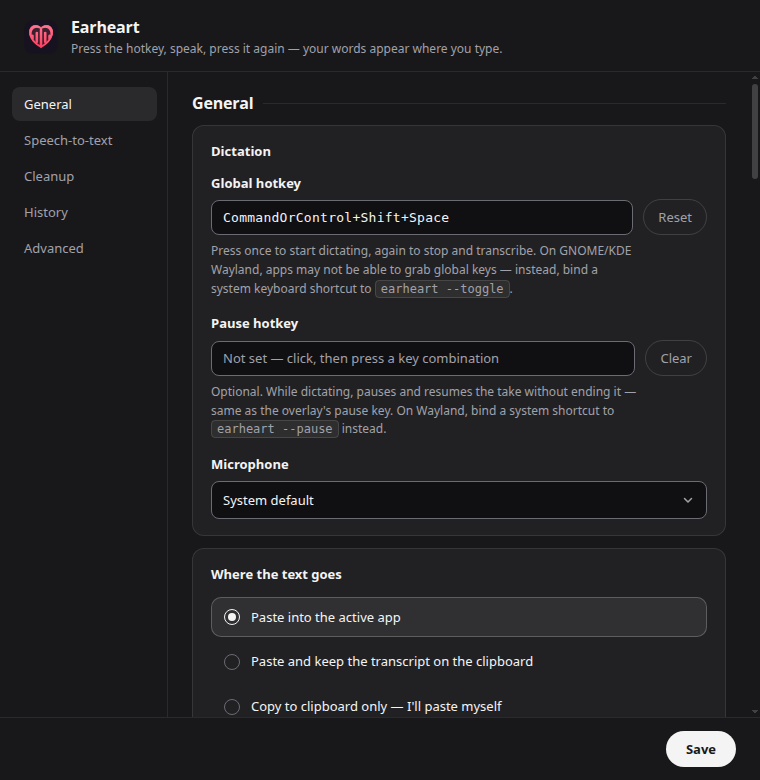
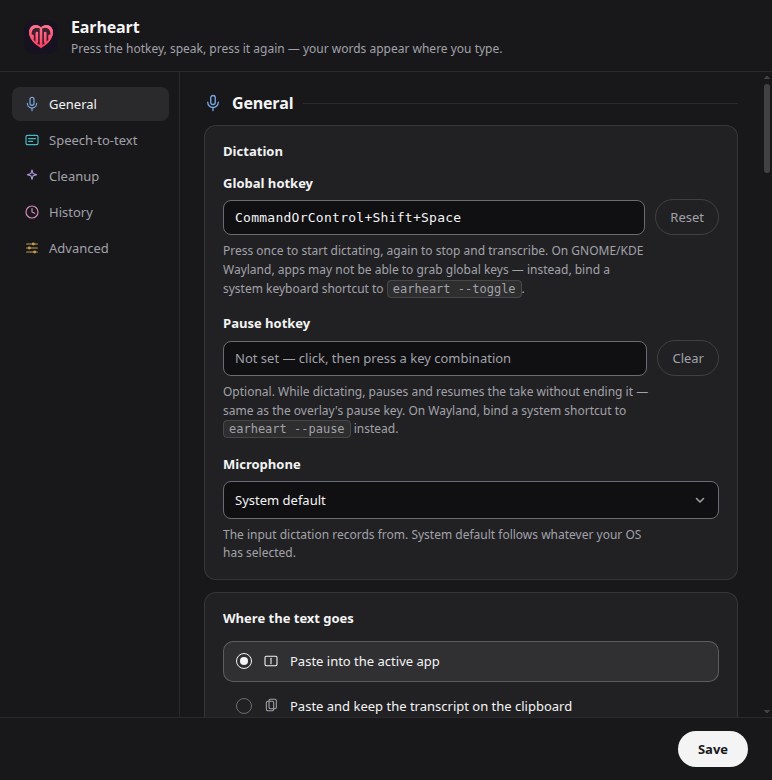
fix(settings): announce the engine badge, give the index room
The two engine pills are swapped by toggling `hidden`, so nothing told a
screen reader that picking OpenAI-compatible is the moment audio starts
leaving the machine — the radio label was the only announcement. Both
states now sit inside one `aria-live="polite"` slot per card: a container
that stays put while its contents change, which is what a live region
needs. The slot also carries the 10px offset, so the spacing under the
hint is the same whichever state is showing.

The index rail goes 168px → 180px because the widest entry
("Speech-to-text") plus its new 16px glyph and 9px gap needs 145px of
content in the widest common UI font (DejaVu Sans) — one pixel of
headroom. The window widens 760 → 772 to match, so the content column
stays exactly where it was.

settings-smoke now drives the engine radios both ways and asserts the
badge follows and lives in a live region, and the README settings
screenshot is re-captured at the new width.

diff --git a/renderer/settings.html b/renderer/settings.html
@@ -182,13 +182,20 @@
               Built-in runs NVIDIA Parakeet privately, with nothing to install.
               OpenAI-compatible points at a local server, OpenAI, Groq, and the like.
             </p>
-            <div class="state-badge state-badge-private" id="stt-engine-state-builtin">
-              <svg class="state-badge-icon" viewBox="0 0 24 24" fill="none" stroke="currentColor" stroke-width="1.6" stroke-linecap="round" stroke-linejoin="round" aria-hidden="true"><rect x="6" y="6" width="12" height="12" rx="2"/><line x1="12" y1="2" x2="12" y2="6"/><line x1="12" y1="18" x2="12" y2="22"/><line x1="2" y1="12" x2="6" y2="12"/><line x1="18" y1="12" x2="22" y2="12"/></svg>
-              Runs on this device — your audio never leaves it
-            </div>
-            <div class="state-badge state-badge-external" id="stt-engine-state-external" hidden>
-              <svg class="state-badge-icon" viewBox="0 0 24 24" fill="none" stroke="currentColor" stroke-width="1.6" stroke-linecap="round" stroke-linejoin="round" aria-hidden="true"><path d="M14 3h7v7"/><line x1="21" y1="3" x2="10" y2="14"/><path d="M19 14v5a2 2 0 0 1-2 2H5a2 2 0 0 1-2-2V7a2 2 0 0 1 2-2h5"/></svg>
-              Sends audio to the endpoint below
+            <!-- One live region per card, wrapping both states: the pill is swapped
+                 by hiding one div and showing the other, so the announcement has to
+                 come from a container that never moves. Switching engines is the one
+                 choice here that changes where your audio/words go — a screen reader
+                 hears that consequence, not just the radio label. -->
+            <div class="state-badge-slot" aria-live="polite">
+              <div class="state-badge state-badge-private" id="stt-engine-state-builtin">
+                <svg class="state-badge-icon" viewBox="0 0 24 24" fill="none" stroke="currentColor" stroke-width="1.6" stroke-linecap="round" stroke-linejoin="round" aria-hidden="true"><rect x="6" y="6" width="12" height="12" rx="2"/><line x1="12" y1="2" x2="12" y2="6"/><line x1="12" y1="18" x2="12" y2="22"/><line x1="2" y1="12" x2="6" y2="12"/><line x1="18" y1="12" x2="22" y2="12"/></svg>
+                Runs on this device — your audio never leaves it
+              </div>
+              <div class="state-badge state-badge-external" id="stt-engine-state-external" hidden>
+                <svg class="state-badge-icon" viewBox="0 0 24 24" fill="none" stroke="currentColor" stroke-width="1.6" stroke-linecap="round" stroke-linejoin="round" aria-hidden="true"><path d="M14 3h7v7"/><line x1="21" y1="3" x2="10" y2="14"/><path d="M19 14v5a2 2 0 0 1-2 2H5a2 2 0 0 1-2-2V7a2 2 0 0 1 2-2h5"/></svg>
+                Sends audio to the endpoint below
+              </div>
             </div>
           </div>
 
@@ -304,13 +311,20 @@
                 Built-in runs a small Gemma model, with nothing to install.
                 OpenAI-compatible points at Ollama, LM Studio, OpenAI, and the like.
               </p>
-              <div class="state-badge state-badge-private" id="cleanup-engine-state-builtin">
-                <svg class="state-badge-icon" viewBox="0 0 24 24" fill="none" stroke="currentColor" stroke-width="1.6" stroke-linecap="round" stroke-linejoin="round" aria-hidden="true"><rect x="6" y="6" width="12" height="12" rx="2"/><line x1="12" y1="2" x2="12" y2="6"/><line x1="12" y1="18" x2="12" y2="22"/><line x1="2" y1="12" x2="6" y2="12"/><line x1="18" y1="12" x2="22" y2="12"/></svg>
-                Runs on this device — your words never leave it
-              </div>
-              <div class="state-badge state-badge-external" id="cleanup-engine-state-external" hidden>
-                <svg class="state-badge-icon" viewBox="0 0 24 24" fill="none" stroke="currentColor" stroke-width="1.6" stroke-linecap="round" stroke-linejoin="round" aria-hidden="true"><path d="M14 3h7v7"/><line x1="21" y1="3" x2="10" y2="14"/><path d="M19 14v5a2 2 0 0 1-2 2H5a2 2 0 0 1-2-2V7a2 2 0 0 1 2-2h5"/></svg>
-                Sends the transcript to the endpoint below
+              <!-- One live region per card, wrapping both states: the pill is swapped
+                   by hiding one div and showing the other, so the announcement has to
+                   come from a container that never moves. Switching engines is the one
+                   choice here that changes where your audio/words go — a screen reader
+                   hears that consequence, not just the radio label. -->
+              <div class="state-badge-slot" aria-live="polite">
+                <div class="state-badge state-badge-private" id="cleanup-engine-state-builtin">
+                  <svg class="state-badge-icon" viewBox="0 0 24 24" fill="none" stroke="currentColor" stroke-width="1.6" stroke-linecap="round" stroke-linejoin="round" aria-hidden="true"><rect x="6" y="6" width="12" height="12" rx="2"/><line x1="12" y1="2" x2="12" y2="6"/><line x1="12" y1="18" x2="12" y2="22"/><line x1="2" y1="12" x2="6" y2="12"/><line x1="18" y1="12" x2="22" y2="12"/></svg>
+                  Runs on this device — your words never leave it
+                </div>
+                <div class="state-badge state-badge-external" id="cleanup-engine-state-external" hidden>
+                  <svg class="state-badge-icon" viewBox="0 0 24 24" fill="none" stroke="currentColor" stroke-width="1.6" stroke-linecap="round" stroke-linejoin="round" aria-hidden="true"><path d="M14 3h7v7"/><line x1="21" y1="3" x2="10" y2="14"/><path d="M19 14v5a2 2 0 0 1-2 2H5a2 2 0 0 1-2-2V7a2 2 0 0 1 2-2h5"/></svg>
+                  Sends the transcript to the endpoint below
+                </div>
               </div>
             </div>
 

diff --git a/scripts/settings-smoke.js b/scripts/settings-smoke.js
@@ -10,6 +10,8 @@
 //      and glides the panel back to the top.
 //   4. The roving tabindex is seated at load: exactly one index button is a
 //      Tab stop before any interaction.
+//   5. The engine state badge follows the engine radio in both directions, and
+//      swaps inside a live region so the privacy consequence is announced.
 //
 // Run under Electron:
 //
@@ -186,6 +188,54 @@ app.whenReady().then(async () => {
     await sleep(100);
     const cleared = await js(`document.getElementById("update-notes").hidden`);
     check("the notes clear when the update does", cleared === true, `hidden=${cleared}`);
+
+    // 6. The engine badge tracks the engine choice. Built-in vs
+    //    OpenAI-compatible decides whether audio/words ever leave the machine,
+    //    so the pill naming that consequence has to follow the radio in both
+    //    directions — and it has to sit in a live region that stays put while
+    //    the two states swap, or a screen reader hears the radio label and
+    //    nothing about where the data goes.
+    for (const kind of ["stt", "cleanup"]) {
+      const badge = JSON.parse(
+        await js(`
+          (() => {
+            const read = () => ({
+              builtin: !document.getElementById("${kind}-engine-state-builtin").hidden,
+              external: !document.getElementById("${kind}-engine-state-external").hidden,
+            });
+            const pick = (value) => {
+              const radio = document.querySelector(
+                'input[name="${kind}-engine"][value=' + JSON.stringify(value) + ']'
+              );
+              radio.checked = true;
+              radio.dispatchEvent(new Event("change", { bubbles: true }));
+              return read();
+            };
+            const slot = document
+              .getElementById("${kind}-engine-state-builtin")
+              .closest("[aria-live]");
+            return JSON.stringify({
+              external: pick("external"),
+              builtin: pick("builtin"),
+              live: slot ? slot.getAttribute("aria-live") : null,
+            });
+          })()
+        `)
+      );
+      check(
+        `the ${kind} engine badge follows the engine choice`,
+        badge.external.external &&
+          !badge.external.builtin &&
+          badge.builtin.builtin &&
+          !badge.builtin.external,
+        `external=${JSON.stringify(badge.external)} builtin=${JSON.stringify(badge.builtin)}`
+      );
+      check(
+        `the ${kind} engine badge swaps inside a live region`,
+        badge.live === "polite",
+        `aria-live=${badge.live}`
+      );
+    }
 
     const failed = checks.filter((c) => !c.ok);
     console.log(

diff --git a/renderer/settings.css b/renderer/settings.css
@@ -121,7 +121,12 @@ nav#tabs {
   display: flex;
   flex-direction: column;
   gap: 2px;
-  width: 168px;
+  /* 180px, not the pre-icon 168px: the widest entry ("Speech-to-text") plus
+     its 16px glyph and 9px gap needs 145px of content in the widest common
+     UI font (DejaVu Sans), which 168px cleared by a single pixel. The
+     window widens to match (main/windows.js) so the content column is
+     unmoved. */
+  width: 180px;
   flex-shrink: 0;
   /* 15px top puts the first 13px entry's BASELINE on the 16px section
      heading's beside it (box tops alone would sit 3px apart across the two
@@ -505,11 +510,18 @@ select {
    leaving it to the segmented control's label alone. No red/green: this is
    information, not a success/fault status, so it stays in the same
    text-dim/wash register as everything else the app says about itself. */
+/* The pill is swapped by hiding one state and showing the other, so the
+   aria-live region has to be this wrapper — a container that never moves —
+   rather than either pill. It also carries the spacing, so the gap below the
+   hint stays the same whichever state is showing. */
+.state-badge-slot {
+  margin-top: 10px;
+}
+
 .state-badge {
   display: inline-flex;
   align-items: center;
   gap: 7px;
-  margin-top: 10px;
   padding: 5px 12px 5px 10px;
   border-radius: 999px;
   background: var(--wash-faint);

diff --git a/main/windows.js b/main/windows.js
@@ -312,10 +312,11 @@ function openSettings({ fromWizard = false } = {}) {
     return settingsWindow;
   }
   settingsWindow = new BrowserWindow({
-    // Index rail (168px) + the content column (max-width 620px in
+    // Index rail (180px) + the content column (max-width 620px in
     // settings.css) with its side padding; wide enough that grid-2 fields
-    // stay comfortable.
-    width: 760,
+    // stay comfortable. Widened with the rail when the index gained its
+    // section glyphs, so the content column stayed where it was.
+    width: 772,
     // The panel is one continuous scroll; this shows the whole General
     // section (the most-visited controls) without scrolling.
     height: 780,
